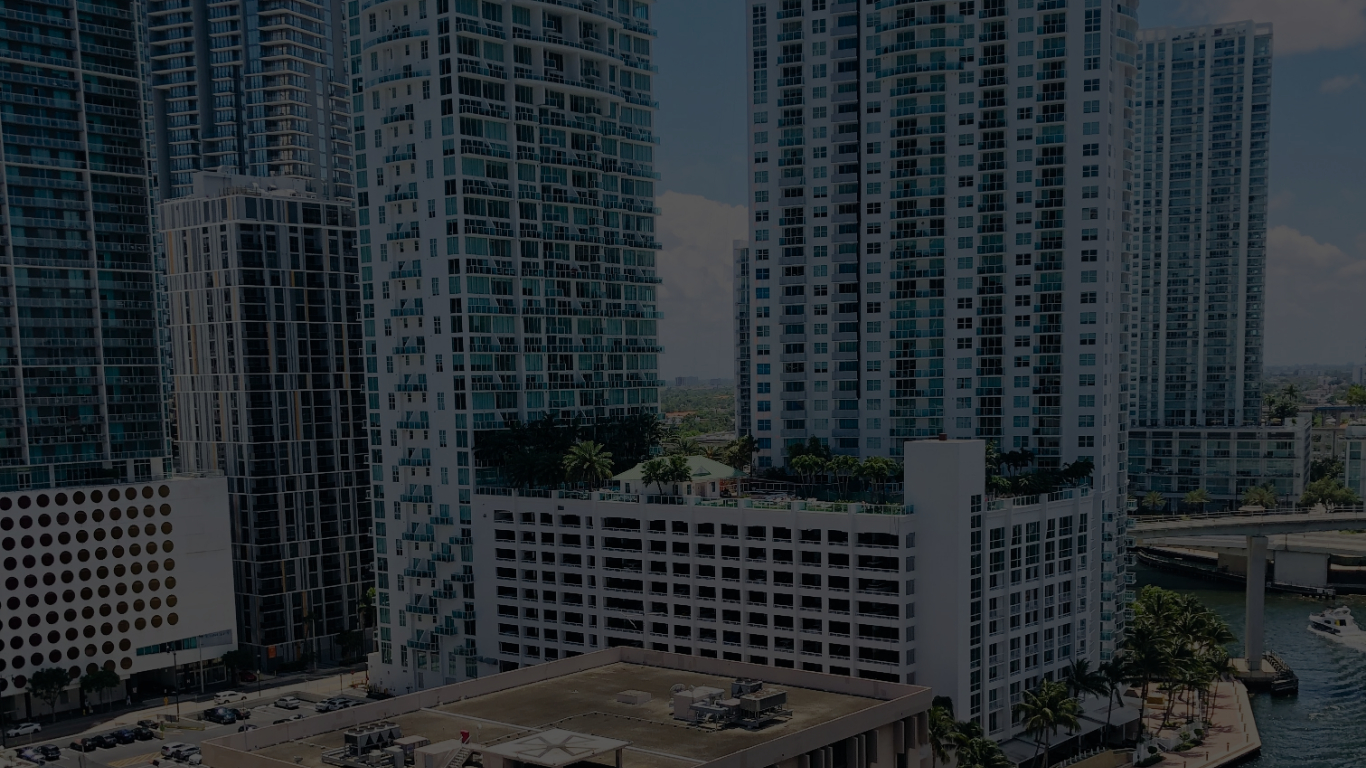
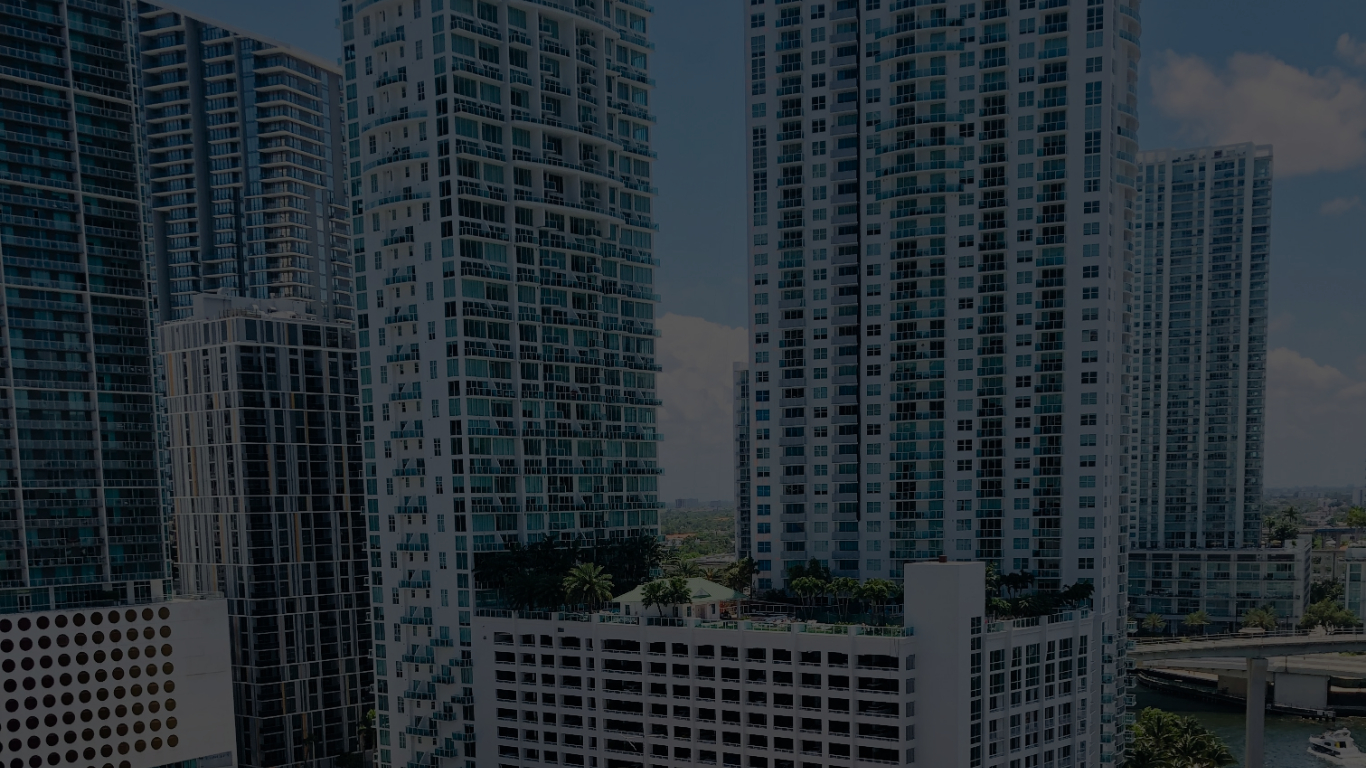
Updated Sales Managers and Top Leaders

diff --git a/index.html b/index.html
@@ -28,15 +28,15 @@
                     </a>
                 </div>
                 <!-- <a class="navbar-brand" href="#page-top"><h2 class="section-heading text-uppercase text-primary">Memm88 Realty</h2></a> -->
-                <button class="navbar-toggler" type="button" data-bs-toggle="collapse" data-bs-target="#navbarResponsive" aria-controls="navbarResponsive" aria-expanded="false" aria-label="Toggle navigation">
+                <button class="navbar-toggler" href="#page-top" type="button" data-bs-toggle="collapse" data-bs-target="#navbarResponsive" aria-controls="navbarResponsive" aria-expanded="false" aria-label="Toggle navigation">
                     Menu
                     <i class="fas fa-bars ms-1"></i>
                 </button>
                 <div class="collapse navbar-collapse" id="navbarResponsive">
                     <ul class="navbar-nav text-uppercase ms-auto py-4 py-lg-0">
                         <li class="nav-item btn"><a class="nav-link" href="#services">Services</a></li>
-                        <li class="nav-item btn"><a class="nav-link" href="#partners">Partners</a></li>
                         <li class="nav-item btn"><a class="nav-link" href="#products">Featured Products</a></li>
+                        <li class="nav-item btn"><a class="nav-link" href="#partners">Partners</a></li>
                         <li class="nav-item btn"><a class="nav-link" href="#about">About</a></li>
                         <li class="nav-item btn"><a class="nav-link" href="#team">Team</a></li>
                         <li class="nav-item btn btn-primary text-uppercase"><a class="nav-link" href="#contact">Contact Us</a></li>
@@ -443,26 +443,38 @@
             <div class="container">
                 <div class="text-center">
                     <h2 class="section-heading text-uppercase">About</h2>
-                    <h3 class="section-subheading text-muted">Lorem ipsum dolor sit amet consectetur.</h3>
+                    <h3 class="section-subheading text-muted"></h3>
                 </div>
                 <br>
 
                 <!-- Mission -->
                 <div class="row">
                     <h4 class="col-lg-8 mx-auto text-uppercase text-center">Mission</h4>
-                    <div class="col-lg-8 mx-auto text-center"><p class="large text-muted">Lorem ipsum dolor sit amet, consectetur adipisicing elit. Aut eaque, laboriosam veritatis, quos non quis ad perspiciatis, totam corporis ea, alias ut unde.</p></div>
+                    <div class="col-lg-8 mx-auto text-center">
+                        <p class="large text-muted">
+                            To be a leader in this industry and to be a true real estate company that provides an EXCELLENT & CONSISTENT customer experience that builds good relationship to our partners and clients, to improve their quality of life and fulfill their real estate dreams.
+                        </p>
+                    </div>
                 </div>
-
+                <br>
                 <!-- Vision -->
                 <div class="row">
                     <h4 class="col-lg-8 mx-auto text-uppercase text-center">Vision</h4>
-                    <div class="col-lg-8 mx-auto text-center"><p class="large text-muted">Lorem ipsum dolor sit amet, consectetur adipisicing elit. Aut eaque, laboriosam veritatis, quos non quis ad perspiciatis, totam corporis ea, alias ut unde.</p></div>
+                    <div class="col-lg-8 mx-auto text-center">
+                        <p class="large text-muted">
+                            We are committed to glorify God and to make a great impact to world by putting our clients’ interests above our own, by giving quality services and opportunities with passion and by providing the highest level of expertise, integrity and satisfaction. 
+                        </p>
+                    </div>
                 </div>
-
+                <br>
                 <!-- Goal -->
                 <div class="row">
                     <h4 class="col-lg-8 mx-auto text-uppercase text-center">Goal</h4>
-                    <div class="col-lg-8 mx-auto text-center"><p class="large text-muted">Lorem ipsum dolor sit amet, consectetur adipisicing elit. Aut eaque, laboriosam veritatis, quos non quis ad perspiciatis, totam corporis ea, alias ut unde.</p></div>
+                    <div class="col-lg-8 mx-auto text-center">
+                        <p class="large text-muted">
+                            To be one of the competitive REALTY & DEVELOPER in this Industry. 
+                        </p>
+                    </div>
                 </div>
                 <br><br><br><br>
 
@@ -605,20 +617,16 @@
                 <div class="row">
                     <div class="col-lg-4">
                         <div class="team-member">
-                            <img class="mx-auto rounded-circle" src="assets/img/team/meldred-gako.jpg" alt="..." />
-                            <h4>Atty. Name Holder</h4>
+                            <img class="mx-auto rounded-circle" src="assets/img/team/atty-adam-jala.jpg" alt="..." />
+                            <h4>Atty. Adam Relson L. Jala</h4>
                             <p class="text-muted">Legal Coucil</p>
-                            <a class="btn btn-dark btn-social mx-2" href="https://m.me/mildred.espanol.5" target="_blank"><i class="fab fa-facebook-messenger"></i></a>
-                            <a class="btn btn-dark btn-social mx-2" href="https://www.facebook.com/mildred.espanol.5" target="_blank"><i class="fab fa-facebook-f" target="_blank"></i></a>
                         </div>
                     </div>
                     <div class="col-lg-4">
                         <div class="team-member">
-                            <img class="mx-auto rounded-circle" src="assets/img/team/sean-cu.jpg" alt="..." />
-                            <h4>Name Holder</h4>
+                            <img class="mx-auto rounded-circle" src="assets/img/team/estrella-acapulco.jpg" alt="..." />
+                            <h4>Estrella Acapulco</h4>
                             <p class="text-muted">Investor</p>
-                            <a class="btn btn-dark btn-social mx-2" href="https://m.me/petersean.sastre" target="_blank"><i class="fab fa-facebook-messenger"></i></a>
-                            <a class="btn btn-dark btn-social mx-2" href="https://www.facebook.com/petersean.sastre" target="_blank"><i class="fab fa-facebook-f"></i></a>
                         </div>
                     </div>
                     <div class="col-lg-4">
@@ -626,8 +634,8 @@
                             <img class="mx-auto rounded-circle" src="assets/img/team/gilbert-renegado.jpg" alt="..." />
                             <h4>Gilbert Renegado</h4>
                             <p class="text-muted">IT</p>
-                            <a class="btn btn-dark btn-social mx-2" href="https://m.me/christopher.samuya.32" target="_blank"><i class="fab fa-facebook-messenger"></i></a>
-                            <a class="btn btn-dark btn-social mx-2" href="https://www.facebook.com/christopher.samuya.32" target="_blank"><i class="fab fa-facebook-f"></i></a>
+                            <a class="btn btn-dark btn-social mx-2" href="https://m.me/gbrenegadz.GUI/" target="_blank"><i class="fab fa-facebook-messenger"></i></a>
+                            <a class="btn btn-dark btn-social mx-2" href="https://www.facebook.com/gbrenegadz.GUI/" target="_blank"><i class="fab fa-facebook-f"></i></a>
                         </div>
                     </div>
                     <div class="col-lg-2"></div>
@@ -642,44 +650,43 @@
                     <div class="carousel-indicators">
                       <button type="button" data-bs-target="#carouselExampleIndicators" data-bs-slide-to="0" class="active" aria-current="true"></button>
                       <button type="button" data-bs-target="#carouselExampleIndicators" data-bs-slide-to="1" class=""></button>
-                      <button type="button" data-bs-target="#carouselExampleIndicators" data-bs-slide-to="2" class=""></button>
                     </div>
                     <div class="carousel-inner">
-                      <div id="sales-managers" class="carousel-item active" data-bs-interval="4000">
+                      <div id="sales-managers" class="carousel-item active" data-bs-interval="5000">
                         <div class="container">
                             <div class="row justify-content-md-center">
                                 <div class="col-lg-3">
                                     <div class="team-member">
-                                        <img class="mx-auto rounded-circle" src="assets/img/team/meldred-gako.jpg" alt="..." style="width: 180px; height: 180px;" />
-                                        <h4>Meldred Gako</h4>
-                                        <p class="text-muted">Finance Officer</p>
+                                        <img class="mx-auto rounded-circle" src="assets/img/team/henry-abear.jpg" alt="..." style="width: 180px; height: 180px;" />
+                                        <h4>Henry Abear</h4>
+                                        <p class="text-muted">Sales Manager</p>
                                         <a class="btn btn-dark btn-social mx-2" href="https://m.me/mildred.espanol.5" target="_blank"><i class="fab fa-facebook-messenger"></i></a>
                                         <a class="btn btn-dark btn-social mx-2" href="https://www.facebook.com/mildred.espanol.5" target="_blank"><i class="fab fa-facebook-f" target="_blank"></i></a>
                                     </div>
                                 </div>
                                 <div class="col-lg-3">
                                     <div class="team-member">
-                                        <img class="mx-auto rounded-circle" src="assets/img/team/sean-cu.jpg" alt="..." style="width: 180px; height: 180px;" />
-                                        <h4>Peter Sean Sastre</h4>
-                                        <p class="text-muted">Marketing Officer</p>
+                                        <img class="mx-auto rounded-circle" src="assets/img/team/cherlita-ocon.jpg" alt="..." style="width: 180px; height: 180px;" />
+                                        <h4>Cherlita Ocon</h4>
+                                        <p class="text-muted">Sales Manager</p>
                                         <a class="btn btn-dark btn-social mx-2" href="https://m.me/petersean.sastre" target="_blank"><i class="fab fa-facebook-messenger"></i></a>
                                         <a class="btn btn-dark btn-social mx-2" href="https://www.facebook.com/petersean.sastre" target="_blank"><i class="fab fa-facebook-f"></i></a>
                                     </div>
                                 </div>
                                 <div class="col-lg-3">
                                     <div class="team-member">
-                                        <img class="mx-auto rounded-circle" src="assets/img/team/christopher-samuya.jpg" alt="..." style="width: 180px; height: 180px;" />
-                                        <h4>Christopher Samuya</h4>
-                                        <p class="text-muted">F.C / Division Manager</p>
+                                        <img class="mx-auto rounded-circle" src="assets/img/team/elsa-patigue.jpg" alt="..." style="width: 180px; height: 180px;" />
+                                        <h4>Elsa Patigue</h4>
+                                        <p class="text-muted">Sales Manager</p>
                                         <a class="btn btn-dark btn-social mx-2" href="https://m.me/christopher.samuya.32" target="_blank"><i class="fab fa-facebook-messenger"></i></a>
                                         <a class="btn btn-dark btn-social mx-2" href="https://www.facebook.com/christopher.samuya.32" target="_blank"><i class="fab fa-facebook-f"></i></a>
                                     </div>
                                 </div>
                                 <div class="col-lg-3">
                                     <div class="team-member">
-                                        <img class="mx-auto rounded-circle" src="assets/img/team/meldred-gako.jpg" alt="..." style="width: 180px; height: 180px;" />
-                                        <h4>Meldred Gako</h4>
-                                        <p class="text-muted">CFO 1/Accounting Head </p>
+                                        <img class="mx-auto rounded-circle" src="assets/img/team/grace-petallana.jpg" alt="..." style="width: 180px; height: 180px;" />
+                                        <h4>Grace Petallana</h4>
+                                        <p class="text-muted">Sales Manager</p>
                                         <a class="btn btn-dark btn-social mx-2" href="https://m.me/mildred.espanol.5" target="_blank"><i class="fab fa-facebook-messenger"></i></a>
                                         <a class="btn btn-dark btn-social mx-2" href="https://www.facebook.com/mildred.espanol.5" target="_blank"><i class="fab fa-facebook-f" target="_blank"></i></a>
                                     </div>
@@ -687,83 +694,32 @@
                             </div>
                         </div>
                       </div>
-                      <div id="sales-managers" class="carousel-item" data-bs-interval="4000">
+                      <div id="sales-managers" class="carousel-item" data-bs-interval="5000">
                         <div class="container">
                             <div class="row justify-content-md-center">
                                 <div class="col-lg-3">
                                     <div class="team-member">
-                                        <img class="mx-auto rounded-circle" src="assets/img/team/meldred-gako.jpg" alt="..." style="width: 180px; height: 180px;" />
-                                        <h4>Meldred Gako</h4>
-                                        <p class="text-muted">CFO 1/Accounting Head </p>
+                                        <img class="mx-auto rounded-circle" src="assets/img/team/john-santia.jpg" alt="..." style="width: 180px; height: 180px;" />
+                                        <h4>John Santia</h4>
+                                        <p class="text-muted">Sales Manager</p>
                                         <a class="btn btn-dark btn-social mx-2" href="https://m.me/mildred.espanol.5" target="_blank"><i class="fab fa-facebook-messenger"></i></a>
                                         <a class="btn btn-dark btn-social mx-2" href="https://www.facebook.com/mildred.espanol.5" target="_blank"><i class="fab fa-facebook-f" target="_blank"></i></a>
                                     </div>
                                 </div>
                                 <div class="col-lg-3">
                                     <div class="team-member">
-                                        <img class="mx-auto rounded-circle" src="assets/img/team/sean-cu.jpg" alt="..." style="width: 180px; height: 180px;" />
-                                        <h4>Peter Sean Sastre</h4>
-                                        <p class="text-muted">VP for Training</p>
+                                        <img class="mx-auto rounded-circle" src="assets/img/team/leigh-anne-comeghod.jpg" alt="..." style="width: 180px; height: 180px;" />
+                                        <h4>Leigh Anne Comeghod</h4>
+                                        <p class="text-muted">Sales Secretary</p>
                                         <a class="btn btn-dark btn-social mx-2" href="https://m.me/petersean.sastre" target="_blank"><i class="fab fa-facebook-messenger"></i></a>
                                         <a class="btn btn-dark btn-social mx-2" href="https://www.facebook.com/petersean.sastre" target="_blank"><i class="fab fa-facebook-f"></i></a>
                                     </div>
                                 </div>
                                 <div class="col-lg-3">
                                     <div class="team-member">
-                                        <img class="mx-auto rounded-circle" src="assets/img/team/christopher-samuya.jpg" alt="..." style="width: 180px; height: 180px;" />
-                                        <h4>Christopher Samuya</h4>
-                                        <p class="text-muted">F.C / Division Manager</p>
-                                        <a class="btn btn-dark btn-social mx-2" href="https://m.me/christopher.samuya.32" target="_blank"><i class="fab fa-facebook-messenger"></i></a>
-                                        <a class="btn btn-dark btn-social mx-2" href="https://www.facebook.com/christopher.samuya.32" target="_blank"><i class="fab fa-facebook-f"></i></a>
-                                    </div>
-                                </div>
-                                <div class="col-lg-3">
-                                    <div class="team-member">
-                                        <img class="mx-auto rounded-circle" src="assets/img/team/sean-cu.jpg" alt="..." style="width: 180px; height: 180px;" />
-                                        <h4>Peter Sean Sastre</h4>
-                                        <p class="text-muted">VP for Training</p>
-                                        <a class="btn btn-dark btn-social mx-2" href="https://m.me/petersean.sastre" target="_blank"><i class="fab fa-facebook-messenger"></i></a>
-                                        <a class="btn btn-dark btn-social mx-2" href="https://www.facebook.com/petersean.sastre" target="_blank"><i class="fab fa-facebook-f"></i></a>
-                                    </div>
-                                </div>
-                            </div>
-                        </div>
-                      </div>
-                      <div id="sales-managers" class="carousel-item" data-bs-interval="4000">
-                        <div class="container">
-                            <div class="row justify-content-md-center">
-                                <div class="col-lg-3">
-                                    <div class="team-member">
-                                        <img class="mx-auto rounded-circle" src="assets/img/team/meldred-gako.jpg" alt="..." style="width: 180px; height: 180px;" />
-                                        <h4>Meldred Gako</h4>
-                                        <p class="text-muted">CFO 1/Accounting Head </p>
-                                        <a class="btn btn-dark btn-social mx-2" href="https://m.me/mildred.espanol.5" target="_blank"><i class="fab fa-facebook-messenger"></i></a>
-                                        <a class="btn btn-dark btn-social mx-2" href="https://www.facebook.com/mildred.espanol.5" target="_blank"><i class="fab fa-facebook-f" target="_blank"></i></a>
-                                    </div>
-                                </div>
-                                <div class="col-lg-3">
-                                    <div class="team-member">
-                                        <img class="mx-auto rounded-circle" src="assets/img/team/sean-cu.jpg" alt="..." style="width: 180px; height: 180px;" />
-                                        <h4>Peter Sean Sastre</h4>
-                                        <p class="text-muted">VP for Training</p>
-                                        <a class="btn btn-dark btn-social mx-2" href="https://m.me/petersean.sastre" target="_blank"><i class="fab fa-facebook-messenger"></i></a>
-                                        <a class="btn btn-dark btn-social mx-2" href="https://www.facebook.com/petersean.sastre" target="_blank"><i class="fab fa-facebook-f"></i></a>
-                                    </div>
-                                </div>
-                                <div class="col-lg-3">
-                                    <div class="team-member">
-                                        <img class="mx-auto rounded-circle" src="assets/img/team/christopher-samuya.jpg" alt="..." style="width: 180px; height: 180px;" />
-                                        <h4>Christopher Samuya</h4>
-                                        <p class="text-muted">F.C / Division Manager</p>
-                                        <a class="btn btn-dark btn-social mx-2" href="https://m.me/christopher.samuya.32" target="_blank"><i class="fab fa-facebook-messenger"></i></a>
-                                        <a class="btn btn-dark btn-social mx-2" href="https://www.facebook.com/christopher.samuya.32" target="_blank"><i class="fab fa-facebook-f"></i></a>
-                                    </div>
-                                </div>
-                                <div class="col-lg-3">
-                                    <div class="team-member">
-                                        <img class="mx-auto rounded-circle" src="assets/img/team/christopher-samuya.jpg" alt="..." style="width: 180px; height: 180px;" />
-                                        <h4>Christopher Samuya</h4>
-                                        <p class="text-muted">F.C / Division Manager</p>
+                                        <img class="mx-auto rounded-circle" src="assets/img/team/charlyn-bautista.jpg" alt="..." style="width: 180px; height: 180px;" />
+                                        <h4>Charlyn Bautista</h4>
+                                        <p class="text-muted">Accounting</p>
                                         <a class="btn btn-dark btn-social mx-2" href="https://m.me/christopher.samuya.32" target="_blank"><i class="fab fa-facebook-messenger"></i></a>
                                         <a class="btn btn-dark btn-social mx-2" href="https://www.facebook.com/christopher.samuya.32" target="_blank"><i class="fab fa-facebook-f"></i></a>
                                     </div>
@@ -803,8 +759,10 @@
                     <h4 class="col-lg-8 mx-auto text-uppercase text-center text-white fw-normal">Visit Us</h4>
                     <h4 class="col-lg-8 mx-auto text-center text-white fw-lighter">Tagbilaran North Rd 6300 Tagbilaran City, Philippines</h4>
                 </div>
-                <!-- <br><br><br> -->
-                <!-- <form id="contactForm">
+                <br><br><br>
+                <h4 class="col-lg-8 mx-auto text-uppercase text-center text-white fw-normal">Message Us</h4>
+                <br>
+                <form id="contactForm">
                     <div class="row align-items-stretch mb-5">
                         <div class="col-md-6">
                             <div class="form-group">
@@ -831,7 +789,7 @@
                         <div id="success"></div>
                         <button class="btn btn-success btn-xl text-uppercase" id="sendMessageButton" type="submit">Send Message</button>
                     </div>
-                </form> -->
+                </form>
             </div>
         </section>
         <!-- Footer-->

diff --git a/css/styles.css b/css/styles.css
@@ -11434,8 +11434,8 @@ header.masthead .masthead-heading {
 
 section#contact {
   background-color: #212529;
-  background-image: url("../assets/img/contact-us/contact-us-bg.jpg");
-  background-repeat: no-repeat;
+  background-image: url("../assets/img/contact-us/footer-bg.jpg");
+  background-repeat: initial;
   background-position: center;
   background-image: linear-gradient(rgba(0, 0, 0, 0.7),rgba(0, 0, 0, 0.5)) , url("../assets/img/contact-us/footer-bg.jpg");
 }
